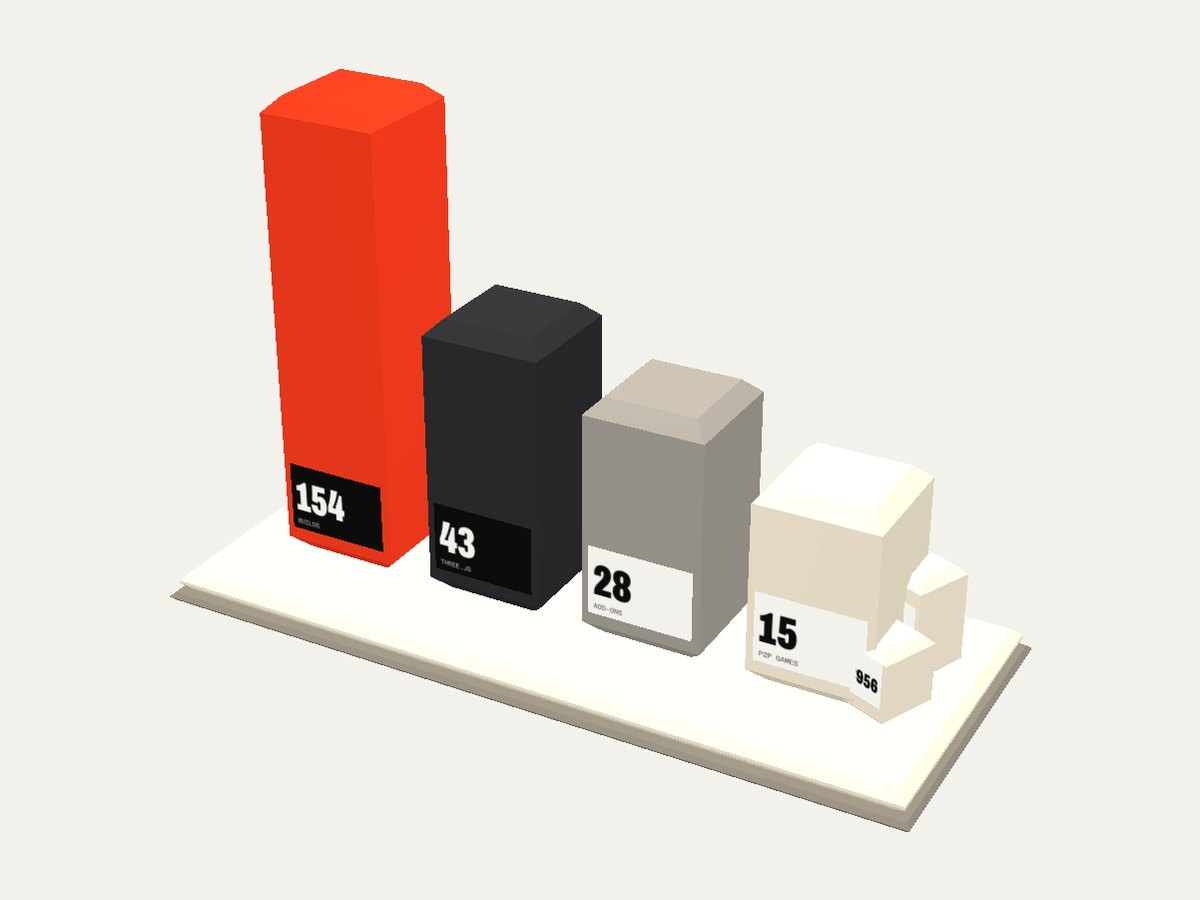
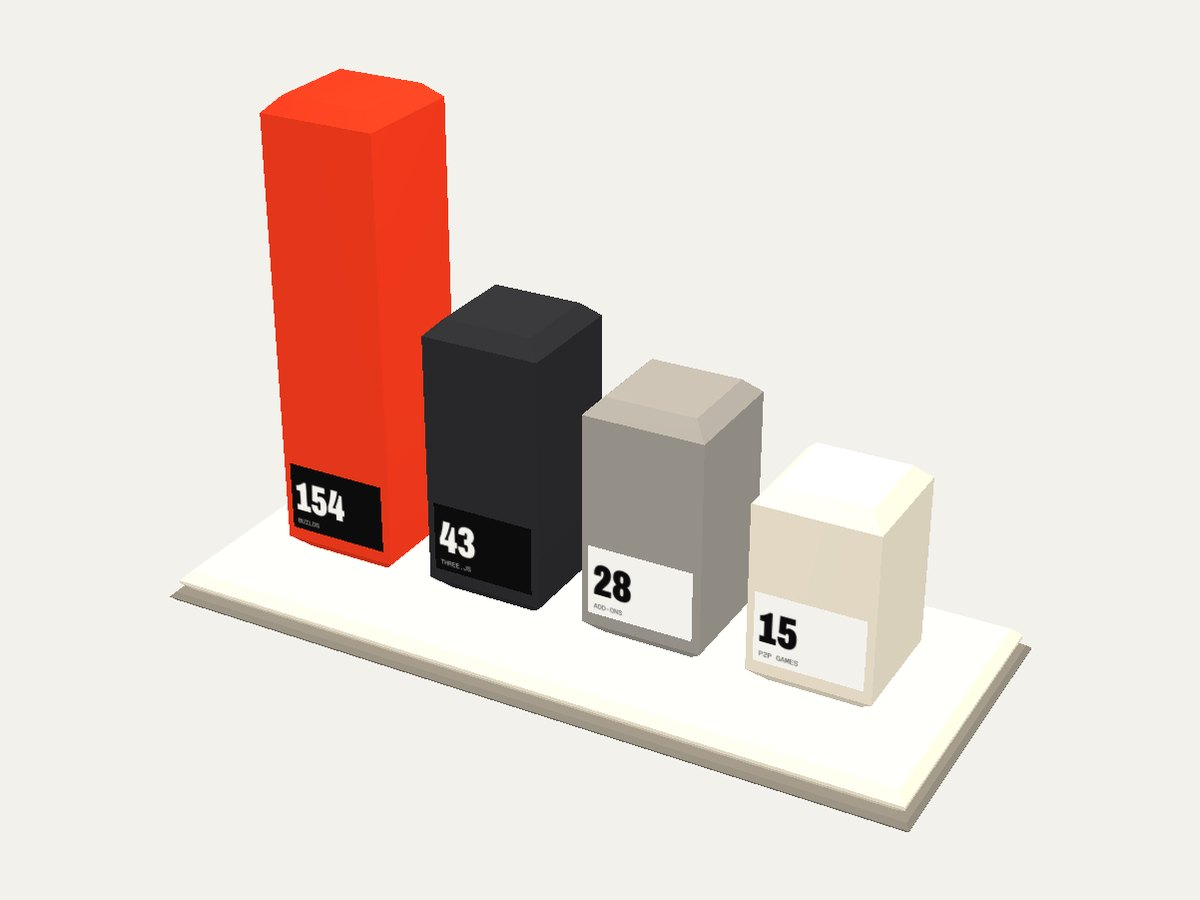
Red Scroll-me loader that fades in; quieter rooms; white type in red rooms
- Loader is a red screen that says only SCROLL ME, with a white hairline
  for progress; it fades and softly blurs away into the two halves
- Removed the floating 1/0 and paper particles, the red floor path, the
  neon signs, cable trays, extra plants and the small trophy plaques
- Creator (red) rooms paint their big wall word in white

Claude-Session: https://claude.ai/code/session_01DM9MDgNKx7H6ECd662b5ve

Changed region(s): [[0.7092, 0.6222, 0.8017, 0.8089]]

diff --git a/app.js b/app.js
@@ -302,29 +302,24 @@ body.classList.toggle('low', LOW);
 })();
 
 /* ── the loader lifts away by itself once everything is built ── */
-const gateFill = $('#gateFill'), gateMsg = $('#gateMsg');
+const gateFill = $('#gateFill');
 let loadedN = 0, loadTotal = 1;
 /* the inline starter counted while the scripts downloaded; carry on from where it got to */
 window.__gateTaken = true;
-let gateShown = parseInt(($('#gateNum') || {}).textContent, 10) || 0, gateWant = gateShown;
+let gateShown = Math.round(window.__gateN || 0), gateWant = gateShown;
 function progress(){
   gateWant = Math.max(gateWant, Math.round(100 * loadedN / loadTotal));
 }
-/* one line under the bar says what is happening */
-const GATE_MSG = [[0, 'Engineer · Creator'], [34, 'Building nine rooms'], [70, 'Hanging the posters'], [97, 'Opening up']];
 let gateDrawn = -1;
 (function count(){
   if (!body.classList.contains('booting')) return;
   gateShown += (gateWant - gateShown) * .1;
   const n = Math.min(100, Math.round(gateShown));
-  if (n !== gateDrawn){
-    gateDrawn = n; $('#gateNum').textContent = n; gateFill.style.width = n + '%';
-    const m = GATE_MSG.filter(c => n >= c[0]).pop(); if (gateMsg.textContent !== m[1]) gateMsg.textContent = m[1];
-  }
+  if (n !== gateDrawn){ gateDrawn = n; gateFill.style.transform = 'scaleX(' + (n / 100).toFixed(3) + ')'; }
   requestAnimationFrame(count);
 })();
 const bootAt = performance.now();
-/* the loader splits down the middle and its two halves slide apart */
+/* the loader fades away into the two halves */
 function start(){
   const g = $('#gate');
   body.classList.remove('booting'); body.classList.add('intro');
@@ -597,16 +592,6 @@ function buildShell(){
     const f = plane(world, CELL - WT, CELL - WT, new THREE.MeshLambertMaterial({ map: t, polygonOffset: true, polygonOffsetFactor: -1, polygonOffsetUnits: -1 }), rm.cx, .003, rm.cz);
     f.rotation.x = -Math.PI / 2; f.receiveShadow = true;
   });
-  /* the path you walk, drawn on the floor in red */
-  const pts = [V3(0, 0, 0)];
-  ROOMS.forEach(rm => { pts.push(V3(rm.door.x, 0, rm.door.z)); pts.push(V3(rm.cx, 0, rm.cz)); });
-  const lineM = flat(C.red, { polygonOffset: true, polygonOffsetFactor: -1, polygonOffsetUnits: -1 });
-  for (let k = 0; k < pts.length - 1; k++){
-    const a = pts[k], b = pts[k + 1], len = a.distanceTo(b); if (len < .01) continue;
-    const seg = plane(world, .14, len + .14, lineM, (a.x + b.x) / 2, .005, (a.z + b.z) / 2);
-    seg.rotation.x = -Math.PI / 2; seg.rotation.z = Math.atan2(b.x - a.x, b.z - a.z);
-  }
-
   /* the ceiling fades out as the camera rises above the walls */
   const cm = mat(C.paper, { transparent: true }); ceilMats.push(cm);
   const ceil = plane(world, 2 * HALF, -Z_BACK, cm, 0, RH, Z_BACK / 2); ceil.rotation.x = Math.PI / 2;
@@ -674,7 +659,7 @@ const WALLWORD = ['ARTHIS', 'BLENDER', 'AKVERSE', 'HEXABED', 'INFERENCE', 'THE B
 function wallType(i){
   const rm = ROOMS[i], word = WALLWORD[i];
   const inner = i === 8 ? 13.5 : rm.w - WT - .04;
-  const col = rm.side === 'eng' ? '#3BF07A' : rm.side === 'cre' ? HEX.black : HEX.red;
+  const col = rm.side === 'eng' ? '#3BF07A' : rm.side === 'cre' ? HEX.paper : HEX.red;
   const W = 2048, [c0, g0] = makeCanvas(W, 10);
   const px = fitText(g0, word, W * 1.04, 2000);
   const H = Math.round(px * .78), [c, g] = makeCanvas(W, H);
@@ -987,9 +972,6 @@ function buildNumbers(i){
     K(g, .8, h, .8, fm(bar[3]), x, b, 0, { r: .1 });
     plane(g, .7, .467, decal(plaqueCanvas(bar[0], bar[1], bar[3] === 'ink' || bar[3] === 'red')), x, b + .42, .41);
   });
-  const extra = [['AIR 8956', 'JEE Adv.'], ['98.9', 'JEE Main %ile']];
-  extra.forEach((e, k) => { const p = new THREE.Group(); p.position.set(2.0, b, .2 - k * .5); p.rotation.y = -.4; g.add(p);
-    K(p, .5, .5 + k * .2, .4, fm('cream'), 0, 0, 0, { r: .06 }); plane(p, .46, .3, decal(plaqueCanvas(e[0], e[1], false)), 0, .3 + k * .1, .21); });
   wallType(i);
   return g;
 }
@@ -1205,13 +1187,6 @@ function deskConsole(par, x, z, ry, seed){
   K(g, .34, .6, .6, fm('ink', 'f'), 1.4, 0, .35); [0, 1, 2].forEach(k => K(g, .2, .03, .02, flat(k ? 0xC9F5D6 : FAM.green), 1.4, .38 + k * .07, .66, { noShadow: true }));
   return g;
 }
-function neonSign(par, x, y, z, ry, text, col, w){
-  const [c, g] = makeCanvas(512, 256);
-  g.textAlign = 'center'; g.textBaseline = 'middle'; g.font = '800 150px "JetBrains Mono", ui-monospace, monospace';
-  g.shadowColor = col; g.shadowBlur = 26; g.fillStyle = col; g.fillText(text, 256, 132); g.shadowBlur = 0; g.fillStyle = '#ffffff'; g.globalAlpha = .55; g.fillText(text, 256, 132);
-  const m = plane(par, w, w / 2, decal(texFrom(c), { transparent: true, blending: THREE.AdditiveBlending, depthWrite: false }), x, y, z, ry);
-  return m;
-}
 /* static dressing is merged per material, so a furnished room costs a handful of draw calls */
 const _inv = new THREE.Matrix4(), _rel = new THREE.Matrix4();
 function mergeStatic(D){
@@ -1255,10 +1230,6 @@ function dressRoom(i){
   if (side === 'eng'){
     deskConsole(D, L + .02, 3.6, Math.PI / 2, i * 7);
     framed(D, Rt - .02, 3.9, 3.6, -Math.PI / 2, codeTex(i * 7 + 3), 2.4, 1.5, 'ink');
-    neonSign(D, Rt - .04, 2.25, 3.6, -Math.PI / 2, ['</>', '{ }', '01'][i % 3] || '</>', '#3BF07A', 1.5);
-    plant(D, Rt - .6, 5.6, 1, 'ink', .8);
-    /* cable tray under the ceiling */
-    K(D, .34, .1, dep - 1, fm('ink', 't'), L + .5, RH - .9, dep / 2);
   } else if (side === 'cre'){
     shelf(D, L + .02, 3.4, Math.PI / 2, side, i * 11);
     const keys = { 1: ['rig', 'reel'], 2: ['house', 'build'], 5: ['tools', 'cv'] }[i] || ['wall', 'hex'];
@@ -1286,13 +1257,7 @@ function gradTex(stops, w, h, radial){
   stops.forEach(st => gr.addColorStop(st[0], st[1])); g.fillStyle = gr; g.fillRect(0, 0, w, h);
   return texFrom(c);
 }
-function glyphTex(ch, sq){
-  const [c, g] = makeCanvas(64, 64); g.fillStyle = '#fff';
-  if (sq) g.fillRect(22, 22, 20, 14);
-  else { g.font = '800 52px "JetBrains Mono", ui-monospace, monospace'; g.textAlign = 'center'; g.textBaseline = 'middle'; g.fillText(ch, 32, 34); }
-  return texFrom(c);
-}
-const AIR = [], BEAMS = [];
+const BEAMS = [];
 function buildAtmosphere(){
   const beamTex = gradTex([[0, 'rgba(255,255,255,0)'], [.55, 'rgba(255,255,255,.35)'], [1, 'rgba(255,255,255,.9)']], 4, 256);
   const poolTex = gradTex([[0, 'rgba(255,255,255,.9)'], [.45, 'rgba(255,255,255,.35)'], [1, 'rgba(255,255,255,0)']], 256, 256, true);
@@ -1312,29 +1277,6 @@ function buildAtmosphere(){
     const lamp = new THREE.Mesh(new THREE.CylinderGeometry(.16, .26, .22, 12), fm('ink').clone()); lamp.position.set(p.x, RH - .11, p.z); world.add(lamp);
     const lens = new THREE.Mesh(new THREE.CircleGeometry(.2, 16), flat(0xFFFFFF)); lens.rotation.x = Math.PI / 2; lens.position.set(p.x, RH - .23, p.z); world.add(lens);
     ceilMats.push(lamp.material);
-  });
-  /* the air: 1s and 0s rising through the engineer rooms, paper flecks settling in the creator rooms */
-  const per = LOW ? 34 : 70;
-  [['eng', '1', 1], ['eng', '0', 1], ['cre', '', -1]].forEach(spec => {
-    const rooms = ROOMS.filter(r => r.side === spec[0]), n = rooms.length * per, pos = new Float32Array(n * 3), spd = new Float32Array(n);
-    rooms.forEach((rm, r) => { for (let k = 0; k < per; k++){ const j = (r * per + k) * 3;
-      pos[j] = rm.cx + (Math.random() - .5) * (CELL - 1.2); pos[j + 1] = .3 + Math.random() * (RH - 1); pos[j + 2] = rm.cz + (Math.random() - .5) * (CELL - 1.2);
-      spd[r * per + k] = .15 + Math.random() * .35; } });
-    const geo = new THREE.BufferGeometry(); geo.setAttribute('position', new THREE.BufferAttribute(pos, 3));
-    const pts = new THREE.Points(geo, new THREE.PointsMaterial({ map: glyphTex(spec[1], !spec[1]), color: lin(spec[0] === 'eng' ? FAM.green : C.paper),
-      size: spec[1] ? .2 : .12, transparent: true, opacity: spec[1] ? .55 : .7, depthWrite: false, blending: spec[1] ? THREE.AdditiveBlending : THREE.NormalBlending }));
-    world.add(pts); AIR.push({ pts, pos, spd, dir: spec[2] });
-  });
-  anim.push((t, dt) => {
-    if (REDUCED) return;
-    AIR.forEach(a => {
-      for (let k = 0; k < a.spd.length; k++){
-        const j = k * 3; a.pos[j + 1] += a.dir * a.spd[k] * dt;
-        if (a.dir < 0) a.pos[j] += Math.sin(t * .8 + k) * .002;
-        if (a.pos[j + 1] > RH - .6) a.pos[j + 1] = .3; else if (a.pos[j + 1] < .25) a.pos[j + 1] = RH - .8;
-      }
-      a.pts.geometry.attributes.position.needsUpdate = true;
-    });
   });
 }
 

diff --git a/style.css b/style.css
@@ -810,35 +810,16 @@ body.shot #css3d{display:none}
 #wipe i{transform:scale(0);will-change:transform;bottom:auto}
 @media (prefers-reduced-motion:reduce){ #wipe{display:none!important} }
 
-/* ══ ROUND 8 · the loader, simplified ═══════════════════════
-   Paper, the name, one rounded bar and a number. It leaves by
-   splitting down the middle, the two halves sliding apart. */
-#gate{position:fixed;inset:0;z-index:60;color:var(--black);overflow:hidden;visibility:visible;transition:visibility 0s 1.1s}
-#gate .g-half{position:absolute;top:0;bottom:0;width:50.5%;background:var(--paper);transition:transform .9s var(--ease-io) .18s}
-#gate .g-l{left:0}
-#gate .g-r{right:0}
-#gate .g-in{position:absolute;inset:0;display:flex;flex-direction:column;justify-content:center;gap:var(--s4);padding:var(--s5);max-width:1100px;margin:0 auto;transition:opacity .35s var(--ease-out),transform .45s var(--ease-out)}
-#gate .g-chip{display:inline-flex;align-items:center;gap:var(--s2);font:500 12px/1 var(--f-mono);text-transform:uppercase;letter-spacing:.06em}
-#gate .g-chip i{width:21px;height:21px;border-radius:7px;background:linear-gradient(90deg,var(--term) 50%,var(--red) 50%)}
-#gate .g-name{margin:0;font-size:clamp(64px,13vw,190px);line-height:.82;letter-spacing:-.02em;text-transform:uppercase;white-space:nowrap}
-#gate .g-name em{font-style:normal;color:var(--red)}
-#gate .g-row{display:flex;align-items:center;gap:var(--s3)}
-#gate .gate-bar{display:block;flex:1;height:8px;border-radius:99px;background:rgba(12,12,13,.1);overflow:hidden;position:relative;min-width:0;margin:0}
-#gate .gate-bar i{position:absolute;left:0;top:0;bottom:0;width:0;border-radius:99px;background:linear-gradient(90deg,var(--green) 0%,var(--red) 100%);transition:width .3s var(--ease-out)}
-#gate .g-n{font:800 21px/1 var(--f-code);font-variant-numeric:tabular-nums;min-width:3.2em;text-align:right}
-#gate .g-foot{display:flex;justify-content:space-between;align-items:center;gap:var(--s2);font:500 12px/1.3 var(--f-mono);text-transform:uppercase;letter-spacing:.04em;color:#5C5B58}
-#gate .gate-simple{background:var(--black);color:var(--paper);border:0;padding:9px 14px;border-radius:999px;font:500 12px/1 var(--f-mono);text-transform:uppercase;cursor:pointer}
-body:not(.booting) #gate{visibility:hidden;pointer-events:none}
-body:not(.booting) #gate .g-in{opacity:0;transform:translateY(-13px)}
-body:not(.booting) #gate .g-l{transform:translateX(-101%)}
-body:not(.booting) #gate .g-r{transform:translateX(101%)}
-@media (max-width:760px){
-  #gate .g-in{padding:var(--s4) var(--s3);gap:var(--s3)}
-  #gate .g-name{font-size:min(24vw,120px);white-space:normal}
-  #gate .g-half{width:100%;height:50.5%;left:0;right:0}
-  #gate .g-l{top:0;bottom:auto}
-  #gate .g-r{bottom:0;top:auto}
-  body:not(.booting) #gate .g-l{transform:translateY(-101%)}
-  body:not(.booting) #gate .g-r{transform:translateY(101%)}
-}
-@media (prefers-reduced-motion:reduce){ #gate,#gate *{transition:none!important} }
+/* ══ ROUND 9 · the loader: red, two words, a hairline ═════════
+   It says one thing and fades into the two halves. */
+#gate{position:fixed;inset:0;z-index:60;background:var(--red);color:var(--paper);display:grid;place-items:center;overflow:hidden;
+  opacity:1;visibility:visible;transition:opacity .9s var(--ease-io),visibility 0s .9s}
+#gate .g-word{margin:0;font-size:clamp(72px,17vw,260px);line-height:.8;text-transform:uppercase;letter-spacing:-.02em;white-space:nowrap;
+  transition:transform 1.1s var(--ease-out),filter .9s var(--ease-out);animation:gateBreathe 2.6s var(--ease-io) infinite alternate}
+@keyframes gateBreathe{from{opacity:.86}to{opacity:1}}
+#gate .gate-bar{display:block;position:absolute;left:0;right:0;bottom:0;height:3px;min-width:0;background:rgba(243,241,236,.18);margin:0}
+#gate .gate-bar i{position:absolute;inset:0;width:auto;background:var(--paper);transform:scaleX(0);transform-origin:0 50%;transition:transform .3s var(--ease-out)}
+body:not(.booting) #gate{opacity:0;visibility:hidden;pointer-events:none}
+body:not(.booting) #gate .g-word{transform:scale(1.08);filter:blur(8px)}
+@media (max-width:760px){ #gate .g-word{font-size:min(26vw,140px);white-space:normal;text-align:center} }
+@media (prefers-reduced-motion:reduce){ #gate,#gate *{transition:none!important;animation:none!important} }

diff --git a/index.html b/index.html
@@ -29,23 +29,16 @@
      A title screen while the room loads. Any key, a scroll or the
      button starts it; it never blocks the content underneath. -->
 <div id="gate" role="status" aria-live="polite" aria-label="Loading the portfolio">
-  <div class="g-half g-l"></div><div class="g-half g-r"></div>
-  <div class="g-in">
-    <span class="g-chip"><i></i>Portfolio 2026</span>
-    <p class="g-name poster" aria-hidden="true">Aayush <em>Kumar</em></p>
-    <div class="g-row"><div class="gate-bar" aria-hidden="true"><i id="gateFill"></i></div><span class="g-n"><span id="gateNum">0</span>%</span></div>
-    <div class="g-foot"><span id="gateMsg">Engineer · Creator</span><button class="gate-simple" type="button" data-simple>Simple page</button></div>
-  </div>
-  <button id="gateGo" type="button" hidden disabled>Enter</button>
+  <p class="g-word poster">Scroll me</p>
+  <div class="gate-bar" aria-hidden="true"><i id="gateFill"></i></div>
 </div>
 <script>
-/* counts the first stretch while the 3D library downloads; app.js takes over from here */
+/* fills the first stretch while the 3D library downloads; app.js takes over from here */
 (function(){
-  var n = 0, num = document.getElementById('gateNum'), fill = document.getElementById('gateFill');
+  var n = 0, fill = document.getElementById('gateFill');
   (function tick(){
     if (window.__gateTaken) return;
-    n += (32 - n) * .045;
-    var k = Math.round(n); if (num) num.textContent = k; if (fill) fill.style.width = k + '%';
+    n += (32 - n) * .045; window.__gateN = n; if (fill) fill.style.transform = 'scaleX(' + (n / 100).toFixed(3) + ')';
     setTimeout(tick, 60);
   })();
 })();
